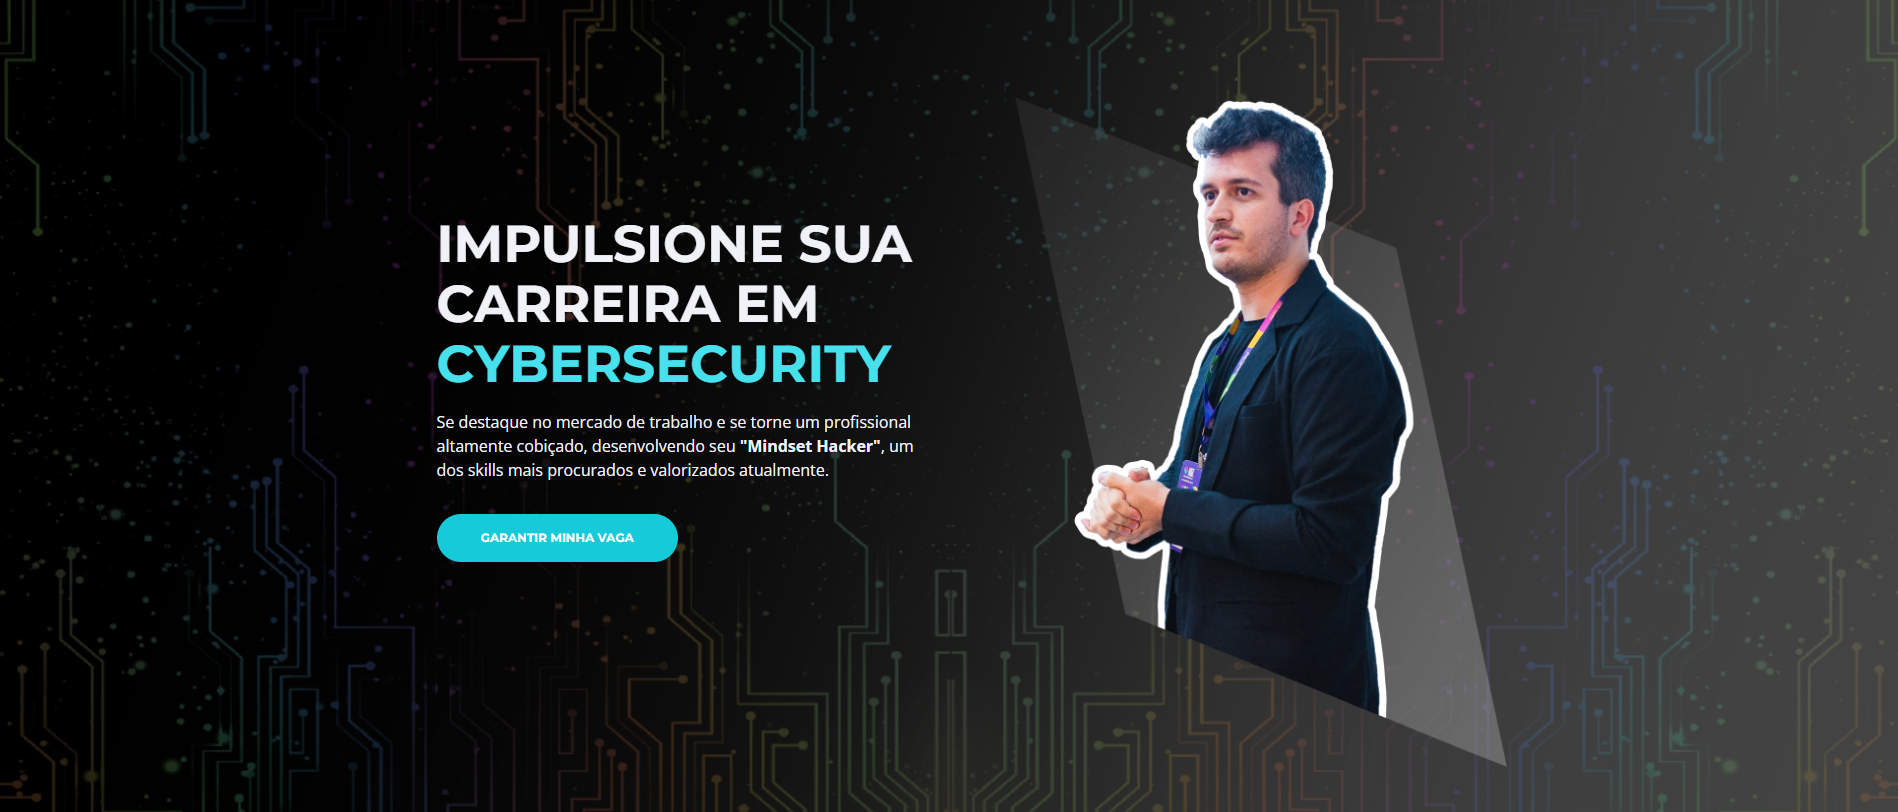
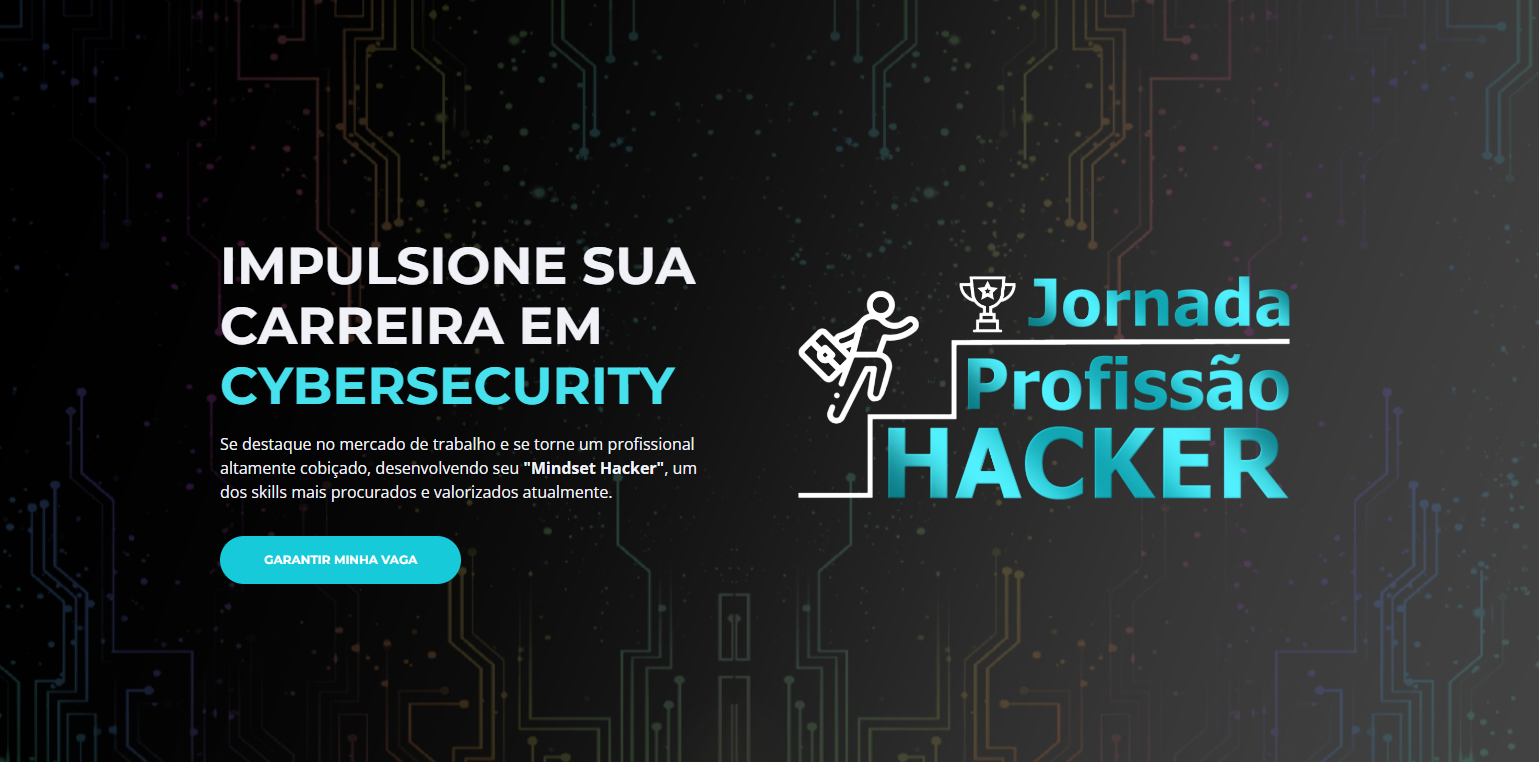
Branding Header

diff --git a/jornada-profissao-hacker.html b/jornada-profissao-hacker.html
@@ -147,21 +147,27 @@
         <div class="header-content">
             <div class="container">
                 <div class="row">
+
+                    <!-- Image -->
+                    <div class="col-lg-6 header-img-small">
+                        <div class="image-container">
+                            <img class="event-cta-header img-fluid" src="images/logos/jornada-profissão-hacker.png" style="margin-bottom: 3rem;">
+                        </div>
+                    </div>
         
                     <!-- Text -->
                     <div class="col-lg-6">
                         <div class="text-container">
-                            <h3 class="blue">Jornada Profissão Hacker</h3>
                             <h1>IMPULSIONE SUA<br>CARREIRA EM<br><span id="js-rotating">CYBERSECURITY, HACKING, BLUE TEAM, RED TEAM, FORENSE, APP SEC</span></h1>
                             <p class="p-large">Se destaque no mercado de trabalho e se torne um profissional altamente cobiçado, desenvolvendo seu <b>"Mindset Hacker"</b>, um dos skills mais procurados e valorizados atualmente.</p>
                             <a target="header" onclick="setConvertedFrom('Header')" class="event-cta-header btn-solid-lg page-scroll" href="#leads">GARANTIR MINHA VAGA</a>
                         </div>
                     </div>
-        
+
                     <!-- Image -->
-                    <div class="col-lg-6">
+                    <div class="col-lg-6 header-img-big">
                         <div class="image-container">
-                            <img class="event-cta-header img-fluid" src="images/uppers/gustavo-square.png">
+                            <img class="event-cta-header img-fluid " src="images/logos/jornada-profissão-hacker.png" style="margin-top: 10rem;">
                         </div>
                     </div>
         

diff --git a/css/styles.css b/css/styles.css
@@ -1701,6 +1701,13 @@ a:hover.back-to-top {
 	.header .image-container img {
 		max-width: 300px;
 	}
+
+	.header-img-big {
+		display: none;
+	}
+	.header-img-small {
+		display: inline-block;
+	}
 	/* end of header */
 
 	/* Testimonials */
@@ -1995,6 +2002,13 @@ a:hover.back-to-top {
 
 	.header .text-container {
 		margin-top: 6.5rem;
+	}
+
+	.header-img-big {
+		display: inline-block;
+	}
+	.header-img-small {
+		display: none;
 	}
 	/* end of Header */
 
